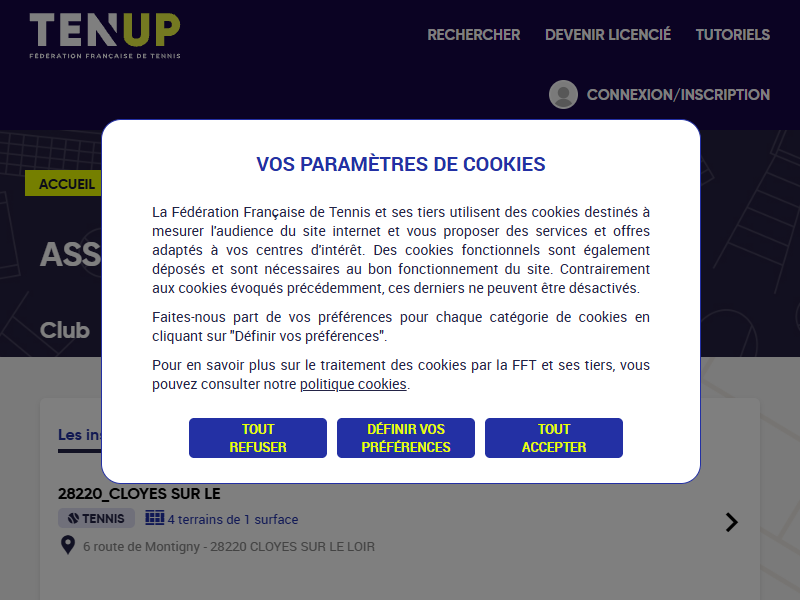
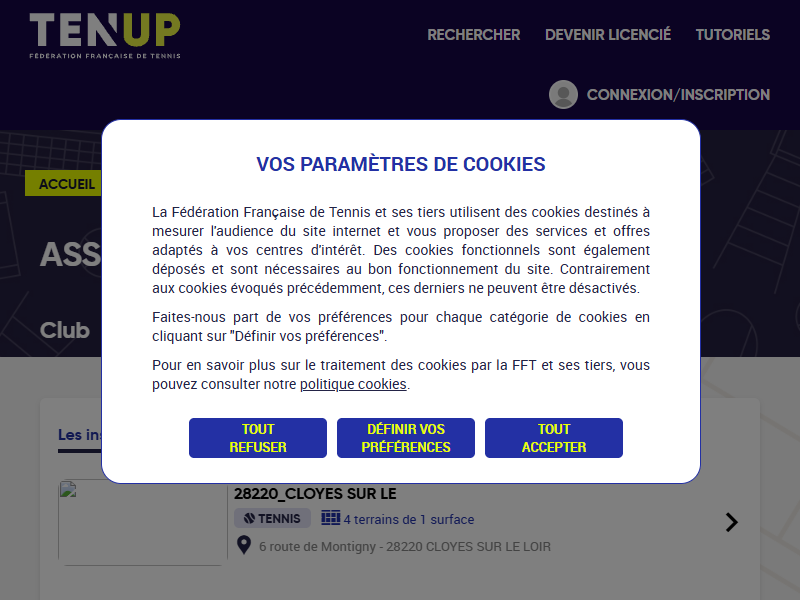
photo_peugot..+scrape_git

Changed region(s): [[0.0625, 0.81, 0.6875, 0.93], [0.5625, 0.84, 0.5938, 0.87]]

diff --git a/debug-tenup.html b/debug-tenup.html
@@ -1,4 +1,4 @@
-<!DOCTYPE html><html lang="fr" dir="ltr" xmlns:og="https://ogp.me/ns#" class="js"><head><script src="https://connect.facebook.net/fr_FR/sdk.js?hash=0f4e830123e474f60a64063e90f6a407" async="" crossorigin="anonymous"></script><script type="text/javascript" async="" src="//fft.commander1.com/getcookie.php?c=TCID&amp;v=tcid" charset="utf-8" id="tc_script_0.6243128358031248"></script>
+<!DOCTYPE html><html lang="fr" dir="ltr" xmlns:og="https://ogp.me/ns#" class="js"><head><script src="https://connect.facebook.net/fr_FR/sdk.js?hash=3510f76323de63650f6b831701247ec4" async="" crossorigin="anonymous"></script><script type="text/javascript" async="" src="//fft.commander1.com/getcookie.php?c=TCID&amp;v=tcid" charset="utf-8" id="tc_script_0.37751510598766647"></script>
   <link rel="profile" href="http://www.w3.org/1999/xhtml/vocab">
   <!--<link href="https://fonts.googleapis.com/css?family=Roboto:300,400,500,700&amp;subset=latin-ext" rel="stylesheet">-->
   <meta name="viewport" content="width=device-width, initial-scale=1">
@@ -60,7 +60,7 @@ var tc_vars = {"env_template":"club","env_work":"prod","env_secure":"https","use
 <script src="/sites/default/files/advagg_js/js__t66um2We1-obW24tN6kXRp8xU_8L240Gx1fIITHMOl0__CpeDhSAKb3O04m8rFywGc5fFLh7XWArxWbcEQnBdgVM__HmOqssqFE1CQmOvc2dlR6y8e5f4_lQDTp8LkqQlu2m0.js"></script>
 <script>
 <!--//--><![CDATA[//><!--
-jQuery.extend(Drupal.settings, {"basePath":"\/","pathPrefix":"","setHasJsCookie":0,"ajaxPageState":{"theme":"met","theme_token":"JguROXWzLEaO_vqLmrOQkTdXJQyWjvRL6vl4rDyhXXk","jquery_version":"2.2","jquery_version_token":"_fHf8cs4Gf7fU7sE2dj0sk71g2njrEGoUa76wiypjRg","css":{"modules\/system\/system.base.css":1,"misc\/ui\/jquery.ui.core.css":1,"misc\/ui\/jquery.ui.theme.css":1,"modules\/field\/theme\/field.css":1,"modules\/node\/node.css":1,"sites\/all\/modules\/contrib\/views\/css\/views.css":1,"sites\/all\/modules\/contrib\/media\/modules\/media_wysiwyg\/css\/media_wysiwyg.base.css":1,"sites\/all\/libraries\/dynatable\/jquery.dynatable.css":1,"sites\/all\/modules\/custom\/actency_itineraire\/css\/actency_itineraire.css":1,"sites\/all\/modules\/contrib\/ctools\/css\/ctools.css":1,"sites\/all\/modules\/contrib\/video\/css\/video.css":1,"sites\/all\/modules\/contrib\/ctools\/css\/modal.css":1,"https:\/\/cdn.jsdelivr.net\/npm\/bootstrap@3.4.1\/dist\/css\/bootstrap.min.css":1,"https:\/\/cdn.jsdelivr.net\/npm\/@unicorn-fail\/drupal-bootstrap-styles@0.0.2\/dist\/3.3.1\/7.x-3.x\/drupal-bootstrap.min.css":1,"https:\/\/stackpath.bootstrapcdn.com\/font-awesome\/4.7.0\/css\/font-awesome.min.css":1,"sites\/all\/modules\/custom\/actency_background\/css\/actency_background.css":1,"sites\/all\/modules\/custom\/homepage\/css\/slick.css":1,"sites\/all\/themes\/met\/public\/css\/met.css":1},"js":{"https:\/\/cdn.jsdelivr.net\/npm\/bootstrap@3.4.1\/dist\/js\/bootstrap.min.js":1,"sites\/all\/themes\/met\/public\/js\/club.js":1,"\/\/cdn.tagcommander.com\/3288\/tc_FFT_19.js":1,"sites\/all\/modules\/custom\/met_tagcommander\/js\/met_tagcommander.js":1,"sites\/all\/themes\/bootstrap\/js\/bootstrap.js":1,"sites\/all\/modules\/contrib\/jquery_update\/replace\/jquery\/2.2\/jquery.min.js":1,"misc\/jquery-extend-3.4.0.js":1,"misc\/jquery-html-prefilter-3.5.0-backport.js":1,"misc\/jquery.once.js":1,"misc\/drupal.js":1,"sites\/all\/modules\/contrib\/jquery_update\/js\/jquery_browser.js":1,"sites\/all\/modules\/contrib\/jquery_update\/replace\/ui\/ui\/minified\/jquery.ui.core.min.js":1,"sites\/all\/modules\/contrib\/jquery_update\/replace\/ui\/external\/jquery.cookie.js":1,"sites\/all\/modules\/contrib\/jquery_update\/replace\/jquery.form\/4\/jquery.form.min.js":1,"misc\/ajax.js":1,"sites\/all\/modules\/contrib\/jquery_update\/js\/jquery_update.js":1,"sites\/all\/modules\/custom\/actency_dynatable\/actency_dynatable.js":1,"sites\/all\/modules\/contrib\/entityreference\/js\/entityreference.js":1,"public:\/\/languages\/fr_Qb641EUOS6NJz445lpyn316FgqrsMrpG2YRTtwzWkD8.js":1,"sites\/all\/libraries\/dynatable\/jquery.dynatable.js":1,"sites\/all\/modules\/custom\/actency_popup_message\/js\/actency_popup_message.js":1,"sites\/all\/modules\/contrib\/image_caption\/image_caption.min.js":1,"sites\/all\/modules\/contrib\/video\/js\/video.js":1,"sites\/all\/themes\/bootstrap\/js\/misc\/_progress.js":1,"sites\/all\/modules\/contrib\/ctools\/js\/modal.js":1,"sites\/all\/modules\/custom\/user_actency\/js\/user_actency.js":1,"sites\/all\/modules\/custom\/adherent\/js\/adherent_modal.js":1,"sites\/all\/modules\/custom\/met_tagcommander\/js\/met_tagcommander_vuejs.js":1,"\/\/cdn.tagcommander.com\/3288\/tc_FFT_18.js":1,"sites\/all\/modules\/custom\/tagcommander_click\/js\/tagcommander_click.js":1,"sites\/all\/modules\/custom\/homepage\/js\/slick.min.js":1,"sites\/all\/modules\/custom\/actency_tournoi_favoris\/js\/actency_tournoi_favoris.js":1,"sites\/all\/themes\/met\/js\/met.js":1,"sites\/all\/themes\/met\/js\/fft-consent.js":1,"sites\/all\/themes\/met\/js\/block-partenaires.js":1,"sites\/all\/themes\/bootstrap\/js\/misc\/ajax.js":1,"sites\/all\/themes\/bootstrap\/js\/modules\/ctools\/js\/modal.js":1}},"fft_club":{"fiche":{"nom":"ASSOCIATION CLOYSIENNE DE TENNIS","labels":[]},"labelsRecompenses":[],"description":"","installations":[{"nom":"28220_CLOYES SUR LE","bgClass":"tennis-pickle","photoPrincipale":"","nbTerrainsSurfacesText":"4 terrains de 1 surface","adresse":"6 route de Montigny - 28220 CLOYES SUR LE LOIR","pratiques":[{"cssClass":"meticon-racket-tennis-inclined","label":"TENNIS","typesSurfaces":{"dur":{"cssClass":"meticon-surface-hard","natures":{"bp":{"label":"B\u00e9ton poreux","nbTerrainsSurfacesText":"4 terrains"}}}}}],"services":{"vestiaires":{"iconClass":"meticon-clothes","label":"Vestiaires","messageInfos":""},"parking":{"iconClass":"meticon-parking","label":"Parking","messageInfos":""},"wifi":{"iconClass":"meticon-wifi","label":"Wifi","messageInfos":"Non renseign\u00e9"},"television":{"iconClass":"meticon-tv","label":"TV","messageInfos":"Non renseign\u00e9"}},"horaires":[],"adresseUrl":"https:\/\/www.google.com\/maps\/dir\/?api=1\u0026destination=48.002518,1.237305","photoPlaceholder":"\/sites\/all\/modules\/custom\/fft_vuejs\/modules\/vuejs_club\/img\/installation_default.png"}],"enseignants":[{"diplomeCode":"DE","fonctionCode":"ETP","imageSrc":"\/sites\/all\/modules\/custom\/actency_user_picture\/images\/identification.svg","libelleDiplome":"Moniteur","libelleCompletDiplome":"Dipl\u00f4me d\u0027Etat JEPS Tennis - Moniteur","nom":"TEROUINARD","nomComplet":"Daniel TEROUINARD","fonction":"Enseignant tous publics","specialites":["Tennis sant\u00e9"]}],"periodes":[{"titre":"Tennis","libelle":"Jan. - F\u00e9v. - Mar. - Avr. - Mai - Juin - Juil. - Ao\u00fb. - Sep. - Oct. - Nov. - D\u00e9c."}],"equipements":[],"services":[{"iconClass":"active","label":"Pr\u00eat de mat\u00e9riel"}],"effectifs":[{"millesime":"saison 2024 - 2025","jeune":52,"adulte":65,"femme":32,"homme":85,"total":117},{"millesime":"saison 2023 - 2024","jeune":52,"adulte":42,"femme":21,"homme":73,"total":94},{"millesime":"saison 2022 - 2023","jeune":50,"adulte":36,"femme":14,"homme":72,"total":86}],"navigation":[{"label":"Club","href":"\/club\/53280682","actif":false},{"label":"Offres","href":"\/club\/53280682\/offres","actif":false},{"label":"Comp\u00e9titions","href":"\/club\/53280682\/competitions","actif":false},{"label":"\u00c9v\u00e9nements","href":"\/club\/53280682\/evenements","actif":false}],"partenaires":[],"question":{"title":"Une question ?","label":"Contactez le club pour en savoir plus.","liste":[{"class":"meticon-phone","label":"T\u00e9l\u00e9phone","infos":"0768428751"},{"class":"meticon-at","label":"Courriel","infos":"\/club\/53280682\/contact\/formulaire"}]}},"vuejs_context":"clubInfo","urlImage":"https:\/\/tenup.fft.fr\/sites\/default\/files\/actency_backgrounds\/propositions_0001_02_0.png","CToolsModal":{"loadingText":"En cours de chargement...","closeText":"Fermer la fen\u00eatre","closeImage":"\u003Cimg class=\u0022img-responsive\u0022 src=\u0022https:\/\/tenup.fft.fr\/sites\/all\/modules\/contrib\/ctools\/images\/icon-close-window.png\u0022 alt=\u0022Fermer la fen\u00eatre\u0022 title=\u0022Fermer la fen\u00eatre\u0022 \/\u003E","throbber":"\u003Cimg class=\u0022img-responsive\u0022 src=\u0022https:\/\/tenup.fft.fr\/sites\/all\/modules\/contrib\/ctools\/images\/throbber.gif\u0022 alt=\u0022En cours de chargement\u0022 title=\u0022En cours de chargement...\u0022 \/\u003E"},"happy-modal-style":{"modalSize":{"type":"fixed","width":320,"max-width":360,"height":180,"addWidth":10,"addHeight":10,"contentRight":10,"contentLeft":10,"contentBottom":10,"top":0},"modalClass":"user-actency-cancel","modalOptions":{"opacity":0.6,"background-color":"#000"},"styleCss":"user_cancel_class"},"better_exposed_filters":{"views":{"partenaires":{"displays":{"block":{"filters":[]}}}}},"bootstrap":{"anchorsFix":"0","anchorsSmoothScrolling":"0","formHasError":1,"popoverEnabled":1,"popoverOptions":{"animation":1,"html":0,"placement":"right","selector":"","trigger":"click","triggerAutoclose":1,"title":"","content":"","delay":0,"container":"body"},"tooltipEnabled":1,"tooltipOptions":{"animation":1,"html":0,"placement":"auto left","selector":"","trigger":"hover focus","delay":0,"container":"body"}}});
+jQuery.extend(Drupal.settings, {"basePath":"\/","pathPrefix":"","setHasJsCookie":0,"ajaxPageState":{"theme":"met","theme_token":"hjolVkZy7t4_j7kc_KgxvtMNZPi85nmy-oCaayWBhpk","jquery_version":"2.2","jquery_version_token":"nqvjuVHLooCb30R7fN8ynlipEvrLHWvY7y5KytvYWbY","css":{"modules\/system\/system.base.css":1,"misc\/ui\/jquery.ui.core.css":1,"misc\/ui\/jquery.ui.theme.css":1,"modules\/field\/theme\/field.css":1,"modules\/node\/node.css":1,"sites\/all\/modules\/contrib\/views\/css\/views.css":1,"sites\/all\/modules\/contrib\/media\/modules\/media_wysiwyg\/css\/media_wysiwyg.base.css":1,"sites\/all\/libraries\/dynatable\/jquery.dynatable.css":1,"sites\/all\/modules\/custom\/actency_itineraire\/css\/actency_itineraire.css":1,"sites\/all\/modules\/contrib\/ctools\/css\/ctools.css":1,"sites\/all\/modules\/contrib\/video\/css\/video.css":1,"sites\/all\/modules\/contrib\/ctools\/css\/modal.css":1,"https:\/\/cdn.jsdelivr.net\/npm\/bootstrap@3.4.1\/dist\/css\/bootstrap.min.css":1,"https:\/\/cdn.jsdelivr.net\/npm\/@unicorn-fail\/drupal-bootstrap-styles@0.0.2\/dist\/3.3.1\/7.x-3.x\/drupal-bootstrap.min.css":1,"https:\/\/stackpath.bootstrapcdn.com\/font-awesome\/4.7.0\/css\/font-awesome.min.css":1,"sites\/all\/modules\/custom\/actency_background\/css\/actency_background.css":1,"sites\/all\/modules\/custom\/homepage\/css\/slick.css":1,"sites\/all\/themes\/met\/public\/css\/met.css":1},"js":{"https:\/\/cdn.jsdelivr.net\/npm\/bootstrap@3.4.1\/dist\/js\/bootstrap.min.js":1,"sites\/all\/themes\/met\/public\/js\/club.js":1,"\/\/cdn.tagcommander.com\/3288\/tc_FFT_19.js":1,"sites\/all\/modules\/custom\/met_tagcommander\/js\/met_tagcommander.js":1,"sites\/all\/themes\/bootstrap\/js\/bootstrap.js":1,"sites\/all\/modules\/contrib\/jquery_update\/replace\/jquery\/2.2\/jquery.min.js":1,"misc\/jquery-extend-3.4.0.js":1,"misc\/jquery-html-prefilter-3.5.0-backport.js":1,"misc\/jquery.once.js":1,"misc\/drupal.js":1,"sites\/all\/modules\/contrib\/jquery_update\/js\/jquery_browser.js":1,"sites\/all\/modules\/contrib\/jquery_update\/replace\/ui\/ui\/minified\/jquery.ui.core.min.js":1,"sites\/all\/modules\/contrib\/jquery_update\/replace\/ui\/external\/jquery.cookie.js":1,"sites\/all\/modules\/contrib\/jquery_update\/replace\/jquery.form\/4\/jquery.form.min.js":1,"misc\/ajax.js":1,"sites\/all\/modules\/contrib\/jquery_update\/js\/jquery_update.js":1,"sites\/all\/modules\/custom\/actency_dynatable\/actency_dynatable.js":1,"sites\/all\/modules\/contrib\/entityreference\/js\/entityreference.js":1,"public:\/\/languages\/fr_Qb641EUOS6NJz445lpyn316FgqrsMrpG2YRTtwzWkD8.js":1,"sites\/all\/libraries\/dynatable\/jquery.dynatable.js":1,"sites\/all\/modules\/custom\/actency_popup_message\/js\/actency_popup_message.js":1,"sites\/all\/modules\/contrib\/image_caption\/image_caption.min.js":1,"sites\/all\/modules\/contrib\/video\/js\/video.js":1,"sites\/all\/themes\/bootstrap\/js\/misc\/_progress.js":1,"sites\/all\/modules\/contrib\/ctools\/js\/modal.js":1,"sites\/all\/modules\/custom\/user_actency\/js\/user_actency.js":1,"sites\/all\/modules\/custom\/adherent\/js\/adherent_modal.js":1,"sites\/all\/modules\/custom\/met_tagcommander\/js\/met_tagcommander_vuejs.js":1,"\/\/cdn.tagcommander.com\/3288\/tc_FFT_18.js":1,"sites\/all\/modules\/custom\/tagcommander_click\/js\/tagcommander_click.js":1,"sites\/all\/modules\/custom\/homepage\/js\/slick.min.js":1,"sites\/all\/modules\/custom\/actency_tournoi_favoris\/js\/actency_tournoi_favoris.js":1,"sites\/all\/themes\/met\/js\/met.js":1,"sites\/all\/themes\/met\/js\/fft-consent.js":1,"sites\/all\/themes\/met\/js\/block-partenaires.js":1,"sites\/all\/themes\/bootstrap\/js\/misc\/ajax.js":1,"sites\/all\/themes\/bootstrap\/js\/modules\/ctools\/js\/modal.js":1}},"fft_club":{"fiche":{"nom":"ASSOCIATION CLOYSIENNE DE TENNIS","labels":[]},"labelsRecompenses":[],"description":"","installations":[{"nom":"28220_CLOYES SUR LE","bgClass":"tennis-pickle","photoPrincipale":"https:\/\/cmsclub.fft.fr53\/28\/0682\/a0aac59c-ed51-45cd-b0d7-9558f4f167c4","nbTerrainsSurfacesText":"4 terrains de 1 surface","adresse":"6 route de Montigny - 28220 CLOYES SUR LE LOIR","pratiques":[{"cssClass":"meticon-racket-tennis-inclined","label":"TENNIS","typesSurfaces":{"dur":{"cssClass":"meticon-surface-hard","natures":{"bp":{"label":"B\u00e9ton poreux","nbTerrainsSurfacesText":"4 terrains"}}}}}],"services":{"vestiaires":{"iconClass":"meticon-clothes","label":"Vestiaires","messageInfos":""},"parking":{"iconClass":"meticon-parking","label":"Parking","messageInfos":""},"wifi":{"iconClass":"meticon-wifi","label":"Wifi","messageInfos":"Non renseign\u00e9"},"television":{"iconClass":"meticon-tv","label":"TV","messageInfos":"Non renseign\u00e9"}},"horaires":[],"adresseUrl":"https:\/\/www.google.com\/maps\/dir\/?api=1\u0026destination=48.002518,1.237305","photoPlaceholder":"\/sites\/all\/modules\/custom\/fft_vuejs\/modules\/vuejs_club\/img\/installation_default.png","detail":{"photoPrincipale":"https:\/\/cmsclub.fft.fr53\/28\/0682\/a0aac59c-ed51-45cd-b0d7-9558f4f167c4"},"photos":[{"10":"https:\/\/cmsclub.fft.fr53\/28\/0682\/a0aac59c-ed51-45cd-b0d7-9558f4f167c4","20":"https:\/\/cmsclub.fft.fr53\/28\/0682\/a0aac59c-ed51-45cd-b0d7-9558f4f167c4","30":"https:\/\/cmsclub.fft.fr53\/28\/0682\/a0aac59c-ed51-45cd-b0d7-9558f4f167c4"}]}],"enseignants":[{"diplomeCode":"DE","fonctionCode":"ETP","imageSrc":"\/sites\/all\/modules\/custom\/actency_user_picture\/images\/identification.svg","libelleDiplome":"Moniteur","libelleCompletDiplome":"Dipl\u00f4me d\u0027Etat JEPS Tennis - Moniteur","nom":"TEROUINARD","nomComplet":"Daniel TEROUINARD","fonction":"Enseignant tous publics","specialites":["Tennis sant\u00e9"]}],"periodes":[{"titre":"Tennis","libelle":"Jan. - F\u00e9v. - Mar. - Avr. - Mai - Juin - Juil. - Ao\u00fb. - Sep. - Oct. - Nov. - D\u00e9c."}],"equipements":[],"services":[{"iconClass":"active","label":"Pr\u00eat de mat\u00e9riel"}],"effectifs":[{"millesime":"saison 2024 - 2025","jeune":52,"adulte":65,"femme":32,"homme":85,"total":117},{"millesime":"saison 2023 - 2024","jeune":52,"adulte":42,"femme":21,"homme":73,"total":94},{"millesime":"saison 2022 - 2023","jeune":50,"adulte":36,"femme":14,"homme":72,"total":86}],"navigation":[{"label":"Club","href":"\/club\/53280682","actif":false},{"label":"Offres","href":"\/club\/53280682\/offres","actif":false},{"label":"Comp\u00e9titions","href":"\/club\/53280682\/competitions","actif":false},{"label":"\u00c9v\u00e9nements","href":"\/club\/53280682\/evenements","actif":false}],"partenaires":[],"question":{"title":"Une question ?","label":"Contactez le club pour en savoir plus.","liste":[{"class":"meticon-phone","label":"T\u00e9l\u00e9phone","infos":"0768428751"},{"class":"meticon-at","label":"Courriel","infos":"\/club\/53280682\/contact\/formulaire"}]}},"vuejs_context":"clubInfo","urlImage":"https:\/\/tenup.fft.fr\/sites\/default\/files\/actency_backgrounds\/propositions_0001_02_0.png","CToolsModal":{"loadingText":"En cours de chargement...","closeText":"Fermer la fen\u00eatre","closeImage":"\u003Cimg class=\u0022img-responsive\u0022 src=\u0022https:\/\/tenup.fft.fr\/sites\/all\/modules\/contrib\/ctools\/images\/icon-close-window.png\u0022 alt=\u0022Fermer la fen\u00eatre\u0022 title=\u0022Fermer la fen\u00eatre\u0022 \/\u003E","throbber":"\u003Cimg class=\u0022img-responsive\u0022 src=\u0022https:\/\/tenup.fft.fr\/sites\/all\/modules\/contrib\/ctools\/images\/throbber.gif\u0022 alt=\u0022En cours de chargement\u0022 title=\u0022En cours de chargement...\u0022 \/\u003E"},"happy-modal-style":{"modalSize":{"type":"fixed","width":320,"max-width":360,"height":180,"addWidth":10,"addHeight":10,"contentRight":10,"contentLeft":10,"contentBottom":10,"top":0},"modalClass":"user-actency-cancel","modalOptions":{"opacity":0.6,"background-color":"#000"},"styleCss":"user_cancel_class"},"better_exposed_filters":{"views":{"partenaires":{"displays":{"block":{"filters":[]}}}}},"bootstrap":{"anchorsFix":"0","anchorsSmoothScrolling":"0","formHasError":1,"popoverEnabled":1,"popoverOptions":{"animation":1,"html":0,"placement":"right","selector":"","trigger":"click","triggerAutoclose":1,"title":"","content":"","delay":0,"container":"body"},"tooltipEnabled":1,"tooltipOptions":{"animation":1,"html":0,"placement":"auto left","selector":"","trigger":"hover focus","delay":0,"container":"body"}}});
 //--><!]]>
 </script>
       <script>
@@ -319,15 +319,15 @@ jQuery.extend(Drupal.settings, {"basePath":"\/","pathPrefix":"","setHasJsCookie"
[5 lines of base64/hex data omitted]
 
 .fb_hidden{position:absolute;top:-10000px;z-index:10001}.fb_reposition{overflow:hidden;position:relative}.fb_invisible{display:none}.fb_reset{background:none;border:0px;border-spacing:0;color:#000;cursor:auto;direction:ltr;font-family:lucida grande,tahoma,verdana,arial,sans-serif;font-size:11px;font-style:normal;font-variant:normal;font-weight:400;letter-spacing:normal;line-height:1;margin:0;overflow:visible;padding:0;text-align:left;text-decoration:none;text-indent:0;text-shadow:none;text-transform:none;visibility:visible;white-space:normal;word-spacing:normal}.fb_reset>div{overflow:hidden}@keyframes fb_transform{0%{opacity:0;transform:scale(.95)}to{opacity:1;transform:scale(1)}}.fb_animate{animation:fb_transform .3s forwards}
 
 .fb_dialog{background:#525252b3;position:absolute;top:-10000px;z-index:10001}.fb_dialog_advanced{border-radius:8px;padding:10px}.fb_dialog_content{background:#fff;color:#373737}.fb_dialog_close_icon{background:url(https://connect.facebook.net/rsrc.php/v4/yq/r/IE9JII6Z1Ys.png) no-repeat scroll 0 0 transparent;cursor:pointer;display:block;height:15px;position:absolute;right:18px;top:17px;width:15px}.fb_dialog_mobile .fb_dialog_close_icon{left:5px;right:auto;top:5px}.fb_dialog_padding{background-color:transparent;position:absolute;width:1px;z-index:-1}.fb_dialog_close_icon:hover{background:url(https://connect.facebook.net/rsrc.php/v4/yq/r/IE9JII6Z1Ys.png) no-repeat scroll 0 -15px transparent}.fb_dialog_close_icon:active{background:url(https://connect.facebook.net/rsrc.php/v4/yq/r/IE9JII6Z1Ys.png) no-repeat scroll 0 -30px transparent}.fb_dialog_iframe{line-height:0}.fb_dialog_content .dialog_title{background:#6d84b4;border:1px solid #365899;color:#fff;font-size:14px;font-weight:700;margin:0}.fb_dialog_content .dialog_title>span{background:url(https://connect.facebook.net/rsrc.php/v4/yd/r/Cou7n-nqK52.gif) no-repeat 5px 50%;float:left;padding:5px 0 7px 26px}body.fb_hidden{height:100%;left:0;margin:0;overflow:visible;position:absolute;top:-10000px;transform:none;width:100%}.fb_dialog.fb_dialog_mobile.loading{background:url(https://connect.facebook.net/rsrc.php/v4/ya/r/3rhSv5V8j3o.gif) #fff no-repeat 50% 50%;min-height:100%;min-width:100%;overflow:hidden;position:absolute;top:0;z-index:10001}.fb_dialog.fb_dialog_mobile.loading.centered{background:none;height:auto;min-height:initial;min-width:initial;width:auto}.fb_dialog.fb_dialog_mobile.loading.centered #fb_dialog_loader_spinner{width:100%}.fb_dialog.fb_dialog_mobile.loading.centered .fb_dialog_content{background:none}.loading.centered #fb_dialog_loader_close{clear:both;color:#fff;display:block;font-size:18px;padding-top:20px}#fb-root #fb_dialog_ipad_overlay{background:#0006;inset:0;min-height:100%;position:absolute;width:100%;z-index:10000}#fb-root #fb_dialog_ipad_overlay.hidden{display:none}.fb_dialog.fb_dialog_mobile.loading iframe{visibility:hidden}.fb_dialog_mobile .fb_dialog_iframe{position:sticky;top:0}.fb_dialog_content .dialog_header{background:linear-gradient(from(#738aba),to(#2c4987));border-bottom:1px solid;border-color:#043b87;box-shadow:#fff 0 1px 1px -1px inset;color:#fff;font:700 14px Helvetica,sans-serif;text-overflow:ellipsis;text-shadow:rgba(0,30,84,.296875) 0px -1px 0px;vertical-align:middle;white-space:nowrap}.fb_dialog_content .dialog_header table{height:43px;width:100%}.fb_dialog_content .dialog_header td.header_left{font-size:12px;padding-left:5px;vertical-align:middle;width:60px}.fb_dialog_content .dialog_header td.header_right{font-size:12px;padding-right:5px;vertical-align:middle;width:60px}.fb_dialog_content .touchable_button{background:linear-gradient(from(#4267B2),to(#2a4887));background-clip:padding-box;border:1px solid #29487d;border-radius:3px;display:inline-block;line-height:18px;margin-top:3px;max-width:85px;padding:4px 12px;position:relative}.fb_dialog_content .dialog_header .touchable_button input{background:none;border:none;color:#fff;font:700 12px Helvetica,sans-serif;margin:2px -12px;padding:2px 6px 3px;text-shadow:rgba(0,30,84,.296875) 0px -1px 0px}.fb_dialog_content .dialog_header .header_center{color:#fff;font-size:16px;font-weight:700;line-height:18px;text-align:center;vertical-align:middle}.fb_dialog_content .dialog_content{background:url(https://connect.facebook.net/rsrc.php/v4/y9/r/jKEcVPZFk-2.gif) no-repeat 50% 50%;border:1px solid #4A4A4A;border-bottom:0;border-top:0;height:150px}.fb_dialog_content .dialog_footer{background:#f5f6f7;border:1px solid #4A4A4A;border-top-color:#ccc;height:40px}#fb_dialog_loader_close{float:left}.fb_dialog.fb_dialog_mobile .fb_dialog_close_icon{visibility:hidden}#fb_dialog_loader_spinner{animation:rotateSpinner 1.2s linear infinite;background-color:transparent;background-image:url(https://connect.facebook.net/rsrc.php/v4/yD/r/t-wz8gw1xG1.png);background-position:50% 50%;background-repeat:no-repeat;height:24px;width:24px}@keyframes rotateSpinner{0%{transform:rotate(0)}to{transform:rotate(360deg)}}
 
 .fb_iframe_widget{display:inline-block;position:relative}.fb_iframe_widget span{display:inline-block;position:relative;text-align:justify}.fb_iframe_widget iframe{position:absolute}.fb_iframe_widget_fluid_desktop,.fb_iframe_widget_fluid_desktop span,.fb_iframe_widget_fluid_desktop iframe{max-width:100%}.fb_iframe_widget_fluid_desktop iframe{min-width:220px;position:relative}.fb_iframe_widget_lift{z-index:1}.fb_iframe_widget_fluid{display:inline}.fb_iframe_widget_fluid span{width:100%}
-</style><style type="text/css">.tc-reset-css { border: none; background: none;}.tc-privacy-wrapper .tc-privacy-banner { width: 100%; left: 0px; text-align: left; font-size: 16px; z-index: 999998; position: fixed;}.tc-privacy-wrapper .tc-privacy-accessible-banner { font-size: 1rem;}.tc_div_preview .tc-privacy-wrapper .tc-privacy-banner { position: absolute;}.tc-privacy-wrapper .tc-privacy-footer { bottom: 0px;}.tc-privacy-wrapper .tc-privacy-header { top: 0px;}.tc-privacy-wrapper .tc-privacy-block-text { display: inline-block;}.tc-privacy-wrapper .tc-privacy-text, .tc-privacy-wrapper .tc-iab-purposes-automatic-text { padding: 10px; font-size: 0.75em; text-align: left;}.tc-privacy-wrapper .tc-privacy-block-button, .tc-privacy-wrapper .tc-privacy-block-text { vertical-align: middle;}.tc-privacy-wrapper .tc-privacy-block-button { right: 10px;}.tc-privacy-wrapper .tc-privacy-accessible-banner .tc-privacy-button { float: left;}.tc-privacy-wrapper .tc-privacy-accessible-popin .tc-privacy-button { float: none;}.tc-privacy-wrapper .tc-privacy-button:last-child { margin: 10px 0px;}.tc-privacy-wrapper .tc-privacy-button-close { position: absolute; right: 5px; top: 5px; cursor: pointer; z-index: 1;}.tc-privacy-wrapper .tc-privacy-block-button > button:focus { outline: black 1px dotted; box-shadow: 0 0 0 1px white; -webkit-box-shadow: 0 0 0 1px white; -moz-box-shadow: 0 0 0 1px white;}.tc-privacy-wrapper .tc-privacy-accessible-banner .tc-privacy-block-button > button:focus { outline: black 2px dotted;}.tc-privacy-overlay { background: rgba(0, 0, 0, 0.5); position: fixed; width: 100%; height: 100%; top: 0px; left: 0px; display: block; z-index: 999997;}body.tc-modal-open { bottom: 0; left: 0; position: fixed; right: 0; top: 0; overflow: hidden;}.tc-privacy-wrapper .tc-privacy-banner { background: #fff;}.tc-privacy-wrapper .tc-privacy-text, .tc-privacy-wrapper .tc-iab-purposes-automatic-text { color: #232346;}#tc_privacy_button, #footer_tc_privacy_button, #header_tc_privacy_button, #popin_tc_privacy_button { background: #2330A4; color: #E9FF00;}#tc_privacy_button_2, #footer_tc_privacy_button_2, #header_tc_privacy_button_2, #popin_tc_privacy_button_2 { background: #2330A4; color: #E9FF00;}#tc_privacy_button_3, #footer_tc_privacy_button_3, #header_tc_privacy_button_3, #popin_tc_privacy_button_3 { background: #2330A4; color: #E9FF00;}.tc-privacy-wrapper .tc-privacy-banner { width: 60%; border-radius: 5px; max-width: 600px;}.tc-privacy-wrapper .tc-privacy-iab-banner { width: 100%; max-width: 770px; min-width: 320px; font-family: "Helvetica Neue",Helvetica,Arial,sans-serif; font-size: inherit; margin: auto; max-height: 100%; overflow: auto;}.tc-privacy-wrapper .tc-privacy-text { font-size: 0.875em;}.tc-privacy-wrapper .tc-privacy-iab-banner .tc-privacy-text, .tc-privacy-wrapper .tc-iab-purposes-automatic-text { font-size: 100%;}.tc-privacy-wrapper .tc-privacy-block-button { display: block; text-align: center;}.tc-privacy-wrapper .tc-privacy-button { margin: 0px auto 10px 10px; display: inline-block; cursor: pointer; font-size: 0.875em; padding: 5px 20px;}.tc-privacy-wrapper .tc-privacy-iab-banner .tc-privacy-button { font-size: 100%;}.tc-privacy-wrapper .tc-privacy-button:last-child { margin: 0 auto 10px 10px;}.tc-privacy-wrapper .tc-privacy-button-close { right: -10px; top: -5px;}.tc-privacy-wrapper .tc-privacy-button.tc-privacy-button-top { top: 0; right: 0; width: auto; position: absolute; margin: 10px;}.tc-privacy-padding-top { padding-top: 1rem;}#popin_tc_privacy { border: 1px solid #2330A4; border-radius: 20px; width: 100%; } #popin_tc_privacy_btn_close { display: none; } #tc-title { color: #2330A4 !important; font-size: 20px; font-weight: bold; padding: 15px 0px 15px 0px; } #popin_tc_privacy_button, #popin_tc_privacy_button_2, #popin_tc_privacy_button_3 { border-radius: 5px !important; height: 40px; width: 138px; font-weight: bold; font-size: 13px; vertical-align: top; } #popin_tc_privacy_container_button { padding: 15px 0px 15px; } #popin_tc_privacy_text { padding: 15px 50px 10px; text-align: justify; font-family: Roboto, ui-sans-serif, system-ui, sans-serif; } @media(max-width:568px) { #popin_tc_privacy_text { padding: 15px 20px 10px; max-height: 400px; overflow-y: scroll; } } .tc-privacy-wrapper button.tc-privacy-button { padding-block: 0; }</style></head>
-<body class="html not-front not-logged-in no-sidebars page-club page-club- page-club-53280682 page-club-groupe i18n-fr tc-modal-open" itemscope="" itemtype="http://schema.org/WebSite"><script type="text/javascript" async="" src="https://cdn.trustcommander.net/privacy/3288/privacy_v2_64.js" charset="utf-8" id="tc_script_0.6030975703082206"></script><script type="text/javascript" async="" src="//fft.commander1.com/getcookie.php?c=TCID&amp;v=tcid" charset="utf-8" id="tc_script_0.5535383306854857"></script>
+</style></head>
+<body class="html not-front not-logged-in no-sidebars page-club page-club- page-club-53280682 page-club-groupe i18n-fr tc-modal-open" itemscope="" itemtype="http://schema.org/WebSite"><script type="text/javascript" async="" src="https://cdn.trustcommander.net/privacy/3288/privacy_v2_64.js" charset="utf-8" id="tc_script_0.7517714442903611"></script><script type="text/javascript" async="" src="//fft.commander1.com/getcookie.php?c=TCID&amp;v=tcid" charset="utf-8" id="tc_script_0.9107785453219178"></script>
   <div id="skip-link">
     <a href="#main-content" class="element-invisible element-focusable">Aller au contenu principal</a>
   </div>
@@ -406,7 +406,7 @@ jQuery.extend(Drupal.settings, {"basePath":"\/","pathPrefix":"","setHasJsCookie"
                   
       <div id="app"><div class="container"><div itemscope="itemscope" itemtype="https://schema.org/SportsTeam"><div labels=""><h1 itemprop="name" class="main-title">
     ASSOCIATION CLOYSIENNE DE TENNIS
-  </h1> <div data-target="img-background-handler-target" class="nav-fiche-club"><ul><li><a href="/club/53280682" title="Club" class="">Club</a></li><li><a href="/club/53280682/offres" title="Offres" class="">Offres</a></li><li><a href="/club/53280682/competitions" title="Compétitions" class="">Compétitions</a></li><li><a href="/club/53280682/evenements" title="Événements" class="">Événements</a></li></ul></div></div> <div class="container-content-ficheClub"><div class="col-md-8 col-left-content"><!----> <!----> <div class="row"><div class="block-color-wrapper block-new-ficheclub block-installations"><div class="block-color club-installations"><h3 class="title-border">Les installations</h3> <div itemprop="location" itemscope="itemscope" itemtype="https://schema.org/Place" class="club-installation" bgclass="tennis-pickle" services="[object Object]" horaires="" photoplaceholder="/sites/all/modules/custom/fft_vuejs/modules/vuejs_club/img/installation_default.png"><div class="installation-photo-container" style="display: none;"><img src="" itemprop="address" class="installation-photo"></div> <div class="installation-infos"><h4 itemprop="name" class="installation-nom">28220_CLOYES SUR LE</h4> <div class="installation-additional-infos"><span class="tag-styled-light"><i class="meticon-ball-full"></i> <span>TENNIS</span></span> <span class="installation-nb-terrains-surfaces"><span class="icon meticon-court-full"></span> <span>4 terrains de 1 surface</span></span></div> <div class="installation-adresse-container"><i class="icon meticon-map-marker-full"></i> <span itemprop="address" class="installation-adresse">
+  </h1> <div data-target="img-background-handler-target" class="nav-fiche-club"><ul><li><a href="/club/53280682" title="Club" class="">Club</a></li><li><a href="/club/53280682/offres" title="Offres" class="">Offres</a></li><li><a href="/club/53280682/competitions" title="Compétitions" class="">Compétitions</a></li><li><a href="/club/53280682/evenements" title="Événements" class="">Événements</a></li></ul></div></div> <div class="container-content-ficheClub"><div class="col-md-8 col-left-content"><!----> <!----> <div class="row"><div class="block-color-wrapper block-new-ficheclub block-installations"><div class="block-color club-installations"><h3 class="title-border">Les installations</h3> <div itemprop="location" itemscope="itemscope" itemtype="https://schema.org/Place" class="club-installation" bgclass="tennis-pickle" services="[object Object]" horaires="" photoplaceholder="/sites/all/modules/custom/fft_vuejs/modules/vuejs_club/img/installation_default.png" detail="[object Object]" photos="[object Object]"><div class="installation-photo-container"><img src="https://cmsclub.fft.fr53/28/0682/a0aac59c-ed51-45cd-b0d7-9558f4f167c4" itemprop="address" class="installation-photo"></div> <div class="installation-infos"><h4 itemprop="name" class="installation-nom">28220_CLOYES SUR LE</h4> <div class="installation-additional-infos"><span class="tag-styled-light"><i class="meticon-ball-full"></i> <span>TENNIS</span></span> <span class="installation-nb-terrains-surfaces"><span class="icon meticon-court-full"></span> <span>4 terrains de 1 surface</span></span></div> <div class="installation-adresse-container"><i class="icon meticon-map-marker-full"></i> <span itemprop="address" class="installation-adresse">
         6 route de Montigny - 28220 CLOYES SUR LE LOIR
       </span></div></div></div></div> <div class="container-modal"><div id="myModalInstallation" tabindex="-1" role="dialog" aria-labelledby="myModalLabel" class="modal fade modal-fiche-club modal-installation-club"><div role="document" class="modal-dialog"><div class="modal-content block-dark"><div class="modal-header"><button type="button" data-dismiss="modal" aria-label="Close" class="close"><span class="sr-only">Fermer</span></button> <!----></div> <div class="modal-body"><div class="row"><div class="col-sm-4"><!----> <!----></div> <div class="col-xs-12 col-sm-8 installations"><!----> <!----> <!----> <div></div></div></div></div></div></div></div></div></div></div> <div class="row"><div class="block-color-wrapper block-new-ficheclub"><div class="block-color club-equipe-pedagogique"><h3 class="title-border">Equipe pédagogique</h3> <div class="club-enseignant"><div itemprop="coach" itemscope="itemscope" itemtype="https://schema.org/Person" class="card-club-enseignant" diplomecode="DE" fonctioncode="ETP" nom="TEROUINARD"><div class="card-club-enseignant-image"><img itemprop="image" src="/sites/all/modules/custom/actency_user_picture/images/identification.svg" alt="Daniel TEROUINARD"> <div class="card-club-enseignant-diplome">
       Moniteur
@@ -483,7 +483,7 @@ jQuery.extend(Drupal.settings, {"basePath":"\/","pathPrefix":"","setHasJsCookie"
 
         <h2 class="block-title">Nos partenaires principaux</h2>
     
-  <div class="view view-partenaires view-id-partenaires view-display-id-block view-dom-id-01530351695ac21a01b96a003d64c6c6">
+  <div class="view view-partenaires view-id-partenaires view-display-id-block view-dom-id-f66d38d71f3a3f36b54113584725c653">
         
   
   

diff --git a/app/partenaires/page.tsx b/app/partenaires/page.tsx
@@ -80,23 +80,50 @@ export default function Partenaires() {
             </div>
             
             <div className="bg-white p-4 rounded-lg shadow-md flex flex-col items-center">
-              <div className="w-48 h-32 mb-2 flex items-center justify-center">
+              <div className="w-40 h-32 mb-2 flex items-center justify-center">
+                <a
+                  href="https://www.ad.fr/garage/ad-carrosserie-dunoise"
+                  target="_blank"
+                  rel="noopener noreferrer"
+                  >
                 <Image
-                  src="/images/Partenaires/Ad_peugeot_cassonnet.webp"
-                  alt="Logo Garage Cassonnet Peugeot"
+                  src="/images/Partenaires/AD_Cassonnet.webp"
+                  alt="Logo Garage AD Cassonnet"
                   width={250}
                   height={250}
                   className="object-contain"
                 />
+                </a>
               </div>
               <div className="text-center">
-                <h3 className="font-bold mb-1"><a href="https://www.garage-cassonnet-cloyes.fr/" target="_blank" rel="noopener noreferrer">Garages Cassonnet</a> et <a href="https://www.ad.fr/garage/ad-carrosserie-dunoise" target="_blank" rel="noopener noreferrer">AD</a></h3>
+                <h3 className="font-bold mb-1">AD Cassonnet</h3>
                 <p className="text-sm text-gray-600">(Partenaires fournisseurs des balles sur notre tournoi)</p>
               </div>
             </div>
 
             <div className="bg-white p-4 rounded-lg shadow-md flex flex-col items-center">
-              <div className="w-48 h-32 mb-2 flex items-center justify-center">
+              <div className="w-32 h-32 mb-2 flex items-center justify-center">
+                <a
+                  href="https://www.garage-cassonnet-cloyes.fr/"
+                  target="_blank"
+                  rel="noopener noreferrer">
+                <Image
+                  src="/images/Partenaires/Peugeot_cassonnet.webp"
+                  alt="Logo Garage Cassonnet Peugeot"
+                  width={250}
+                  height={250}
+                  className="object-contain"
+                />
+                </a>
+              </div>
+              <div className="text-center">
+                <h3 className="font-bold mb-1">Garages Peugeot Cassonnet </h3>
+                <p className="text-sm text-gray-600">(Partenaires fournisseurs des balles sur notre tournoi)</p>
+              </div>
+            </div>
+
+            <div className="bg-white p-4 rounded-lg shadow-md flex flex-col items-center">
+              <div className="w-40 h-32 mb-2 flex items-center justify-center">
                 <a
                   href="https://www.pagesjaunes.fr/pros/63034760"
                   target="_blank"
@@ -587,7 +614,7 @@ export default function Partenaires() {
                 rel="noopener noreferrer"
                 >
                 <Image
-                  src="/images/Sponsors/Aux_Co'pains_Gourmands.webp"
+                  src="/images/Sponsors/Aux_co'pains_gourmands.webp"
                   alt="Logo Aux Co'pains Gourmands"
                   width={100}
                   height={100}

diff --git a/components/partners-carousel.tsx b/components/partners-carousel.tsx
@@ -16,9 +16,15 @@ const partners = [
     target: "_blank",
   },
   {
-    name: "Garages Cassonnet et AD",
-    logo: "/images/Partenaires/Ad_peugeot_cassonnet.webp",
+    name: "Garages Peugeot Cassonnet",
+    logo: "/images/Partenaires/Peugeot_cassonnet.webp",
     link: "https://www.garage-cassonnet-cloyes.fr/",
+    target: "_blank",
+  },
+  {
+    name: "AD Cassonnet",
+    logo: "/images/Partenaires/AD_Cassonnet.webp",
+    link: "https://www.ad.fr/garage/ad-carrosserie-dunoise",
     target: "_blank",
   },
     {
